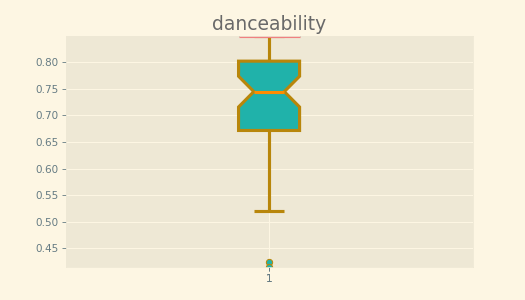
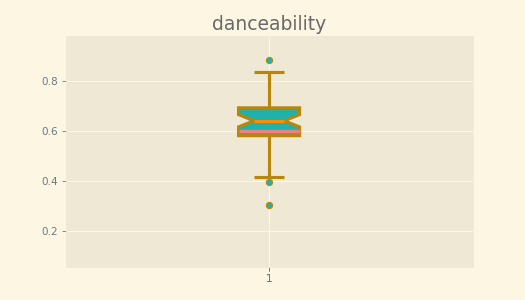
project_finished

diff --git a/main.py b/main.py
@@ -1,6 +1,6 @@
 import pandas as pd
 from p_acquisition import m_acquisition as mac
-from p_analisys import m_analisys as man
+from p_analysis import m_analisys as man
 from p_reporting import m_reporting as mre
 from p_wrangling import m_wrangling as mwr
 from p_plot import m_plot as mpl
@@ -10,10 +10,10 @@ import streamlit as st
 import warnings
 
 #Conexion Spotify
-username='Username'
-client_id = 'Client_id'
-client_secret = 'Client_Secret'
-user_id='User_id'
+username='alfed'
+client_id = 'f66be765be154592baccad01cdc5cdc9'
+client_secret = '89df095d4ec84ca6b64c26981552f198'
+user_id='314vazy3a7sqgzy5njvpop7zdchm'
 AUTH_URL = 'https://accounts.spotify.com/api/token'
 redirect_uri="http://localhost:8080"
 scope="playlist-modify-public playlist-modify-private ugc-image-upload"
@@ -32,13 +32,10 @@ playlist_mix='37i9dQZEVXcOx8nqzmzXjg'
 playlist_dancing='37i9dQZF1DWSX4baQVDQut'
 
 
-
 select = ['Happy', 'Booster', 'Sad', 'Relax', 'Motivation', 'Energy','Dancing', 'Drive', 'Mix','Own']
 plot=['danceability','energy','key','loudness','speechiness','acousticness','instrumentalness','liveness','valence','tempo','time_signature','mode']
 directory = './datasets/data_songs_clean.csv'
 summary= 'This is a playlist based on metrics such as: danceability, energy, loudness, acousticness, instrumentalness.  Enjoy it!'
-
-
 
 st.set_page_config(
      page_title="Spotify recommender",
@@ -78,7 +75,7 @@ with feel_1:
 
 
 with feel_2:
-    col1, col2, col3, col4, col5 = st.columns([2,1,3,2,2])
+    col1, col2, col3, col4, col5= st.columns([2,2,10,2,2])
     col1.image('./Images/image/12.jpg')
     col1.image('./Images/image/8.jpg')
     col1.image('./Images/image/4.jpg')

diff --git a/p_plot/m_plot.py b/p_plot/m_plot.py
@@ -13,7 +13,7 @@ def ploti(similar_song, column):
             medianprops=dict(color='darkorange',linewidth=3),
             )
     ax1.boxplot(similar_song.head(1)[column],zorder=2,medianprops=dict(color='lightcoral',linewidth=3))
-    ax1.set_ylim([similar_song.head(50)[column].min(), similar_song.head(50)[column].max()]) 
+    ax1.set_ylim([similar_song[column].min(), similar_song[column].max()]) 
     plt.title(column, 
         fontdict={'family': 'Gotham', 
                     'color' : 'dimgrey',

diff --git a/README.md b/README.md
@@ -1,1 +1,173 @@
-# Final_Project
+
+<div align="center">
+    <img src="images/cover.png"  width=500 height=500/>
+</div>
+
+&nbsp;
+# Spotify Recommender :headphones:
+
+<img src="https://1000logos.net/wp-content/uploads/2017/08/Spotify-Logo.png" align="right"
+     alt="Size Limit logo by Anton Lovchikov" width="150" height="110">
+
+
+Welcome to this song recommender designed to work with Spotify created as the final project of the Ironhack 2020 Data Analytics course.
+
+Based on a song provided by you or a mood, it will recommend fifty songs. These recommendations will be returned to you in the form of a playlist in your Spotify profile.  
+&nbsp;
+
+----
+
+## The Project
+
+The main objective of the project is to cover almost all the topics and technologies we have studied throughout the course.
+
+&nbsp;
+> **Project purpose.**
+
+
+
+This recommender seeks to generate a playlist based on the mood of the moment, or on the sensations that a song awakens. For example, when a person arrives tired from work and feels like having a drink while listening to music, it can choose the mood 'Relax', or 'Own' and propose the song that the user wants at that very moment. 
+
+&nbsp;
+> **1. Database**
+
+* The recommender works with a base of **6600 songs(330 hours)**. These are the main songs of each musical genre and decade.
+
+```
+It is important to keep the dataset updated with new songs. That's why in next versions I will add to the repository a notebook to update it and add as many as you want. I will call it 'get_new_songs'.
+```
+&nbsp;
+> **2. Recommendation**
+
+The recommendation is made using **features provided by Spotify**:
+    
+- **Acousticness**: A confidence measure from 0.0 to 1.0 of whether the track is acoustic. 1.0 represents high confidence the track is acoustic.
+
+- **Danceability**: Danceability describes how suitable a track is for dancing based on a combination of musical elements including tempo, rhythm stability, beat strength, and overall regularity. A value of 0.0 is least danceable and 1.0 is most danceable.
+    
+- **Energy**: Energy is a measure from 0.0 to 1.0 and represents a perceptual measure of intensity and activity. Typically, energetic tracks feel fast, loud, and noisy. For example, death metal has high energy, while a Bach prelude scores low on the scale. Perceptual features contributing to this attribute include dynamic range, perceived loudness, timbre, onset rate, and general entropy.
+    
+- **Instrumentalness**: Predicts whether a track contains no vocals. "Ooh" and "aah" sounds are treated as instrumental in this context. Rap or spoken word tracks are clearly "vocal". The closer the instrumentalness value is to 1.0, the greater likelihood the track contains no vocal content. Values above 0.5 are intended to represent instrumental tracks, but confidence is higher as the value approaches 1.0.
+        
+- **Key**: The key the track is in. Integers map to pitches using standard Pitch Class notation. E.g. 0 = C, 1 = C♯/D♭, 2 = D, and so on. If no key was detected, the value is -1.
+        
+- **Liveness**: Detects the presence of an audience in the recording. Higher liveness values represent an increased probability that the track was performed live. A value above 0.8 provides strong likelihood that the track is live.
+        
+- **Loudness**: The overall loudness of a track in decibels (dB). Loudness values are averaged across the entire track and are useful for comparing relative loudness of tracks. Loudness is the quality of a sound that is the primary psychological correlate of physical strength (amplitude). Values typically range between -60 and 0 db.
+        
+- **Mode**: Mode indicates the modality (major or minor) of a track, the type of scale from which its melodic content is derived. Major is represented by 1 and minor is 0.
+            
+- **Speechiness**:Speechiness detects the presence of spoken words in a track. The more exclusively speech-like the recording (e.g. talk show, audio book, poetry), the closer to 1.0 the attribute value. Values above 0.66 describe tracks that are probably made entirely of spoken words. Values between 0.33 and 0.66 describe tracks that may contain both music and speech, either in sections or layered, including such cases as rap music. Values below 0.33 most likely represent music and other non-speech-like tracks.
+            
+- **Tempo**: The overall estimated tempo of a track in beats per minute (BPM). In musical terminology, tempo is the speed or pace of a given piece and derives directly from the average beat duration.
+            
+- **Time_signature**: An estimated time signature. The time signature (meter) is a notational convention to specify how many beats are in each bar (or measure). The time signature ranges from 3 to 7 indicating time signatures of "3/4", to "7/4".
+
+- **Valence**: A measure from 0.0 to 1.0 describing the musical positiveness conveyed by a track. Tracks with high valence sound more positive (e.g. happy, cheerful, euphoric), while tracks with low valence sound more negative (e.g. sad, depressed, angry).
+
+
+In this way, to make the recommendation, each song is treated as a vector, so that the recommendations are translated into the closeness that exists between the vectors. 
+
+ To make the comparison, it is important to keep in mind that each feature has a scale, so they are scaled and of course, normalized.
+
+ The similarity between the songs is calculated by cosine similarity, with 1 being the most similar, and -1 being the least.
+
+ <div align="center">
+    <img src="https://images4.programmerclick.com/862/31/31d7e6b3830fc1a71ecb735675197e7e.png"  width=300 height=300/>
+</div>
+
+&nbsp;
+> **2. Use the program**
+
+First, You have to create a Spotify developer account [here](https://developer.spotify.com/dashboard/), and create an app. This video can help you: https://www.youtube.com/watch?v=1vR3m0HupGI  
+
+When you are ready, fork this repository to your **GitHub** and clone it in your local hard drive.
+```
+$ git clone https://github.com/<your-account>/<lab-repo>.git
+```
+Then you will obtain a folder named as the repository you have cloned. Now, you can start working with this.
+
+Now, you must create a new environment in the terminal and install python.
+```
+conda create -n “name”
+conda install ipykernel
+conda install python=3.7
+```
+To execute the code, you must install some libraries:
+
+```
+pip install pandas
+conda install requests
+import numpy as np
+pip install -U scikit-learn
+pip install spotipy
+import matplotlib.pyplot as plt
+pip install streamlit
+```
+It is very important that the credentials generated by Spotify are added to the variables enabled in the "main.py".
+
+```
+username=‘Username’
+client_id = ‘Client_id’
+client_secret = ‘Client_Secret’
+user_id=‘User_id’
+```
+
+Every musical taste is different, if you want to adjust your moods for the recommendations, you can do it!
+
+Just change the ID of the playlist to a playlist of your choice. 
+
+```
+playlist_happy='37i9dQZF1DXdPec7aLTmlC'
+playlist_booster='37i9dQZF1DX3rxVfibe1L0'
+playlist_sad='37i9dQZF1DWZqdNJSufucb'
+playlist_relax='37i9dQZF1DWVIzZt2GAU4X'
+playlist_motivation='37i9dQZF1DXdxcBWuJkbcy'
+playlist_energy='37i9dQZF1DWYp5sAHdz27Y'
+playlist_mix='37i9dQZEVXcOx8nqzmzXjg'
+playlist_dancing='37i9dQZF1DWSX4baQVDQut'
+````
+
+To run the code, you must go to the terminal, go to the repository directory and write:
+```
+streamlit run main.py
+```
+
+---
+
+### :file_folder: **Folder structure**
+```
+└── project
+    ├── .git
+    │ 
+    ├── .gitignore
+    │ 
+    ├── README.md
+    │ 
+    ├──p_acquisition
+    ├──p_wrangling
+    ├──p_analysis
+    ├──p_reporting
+    ├──p_connect
+    ├──p_plot
+    │ 
+    ├── main.py
+    │ 
+    ├── Clean_Songs.ipynb
+    │ 
+    ├── Get_Songs.ipynb
+    │ 
+    ├── datasets
+    │    ├── data_songs_clean.csv
+    │    └── data_songs.csv
+    │
+    └──images
+         ├── cover
+         ├── Purple and Red Orange Cover
+         └── image
+        
+
+```
+&nbsp;
+
+---
